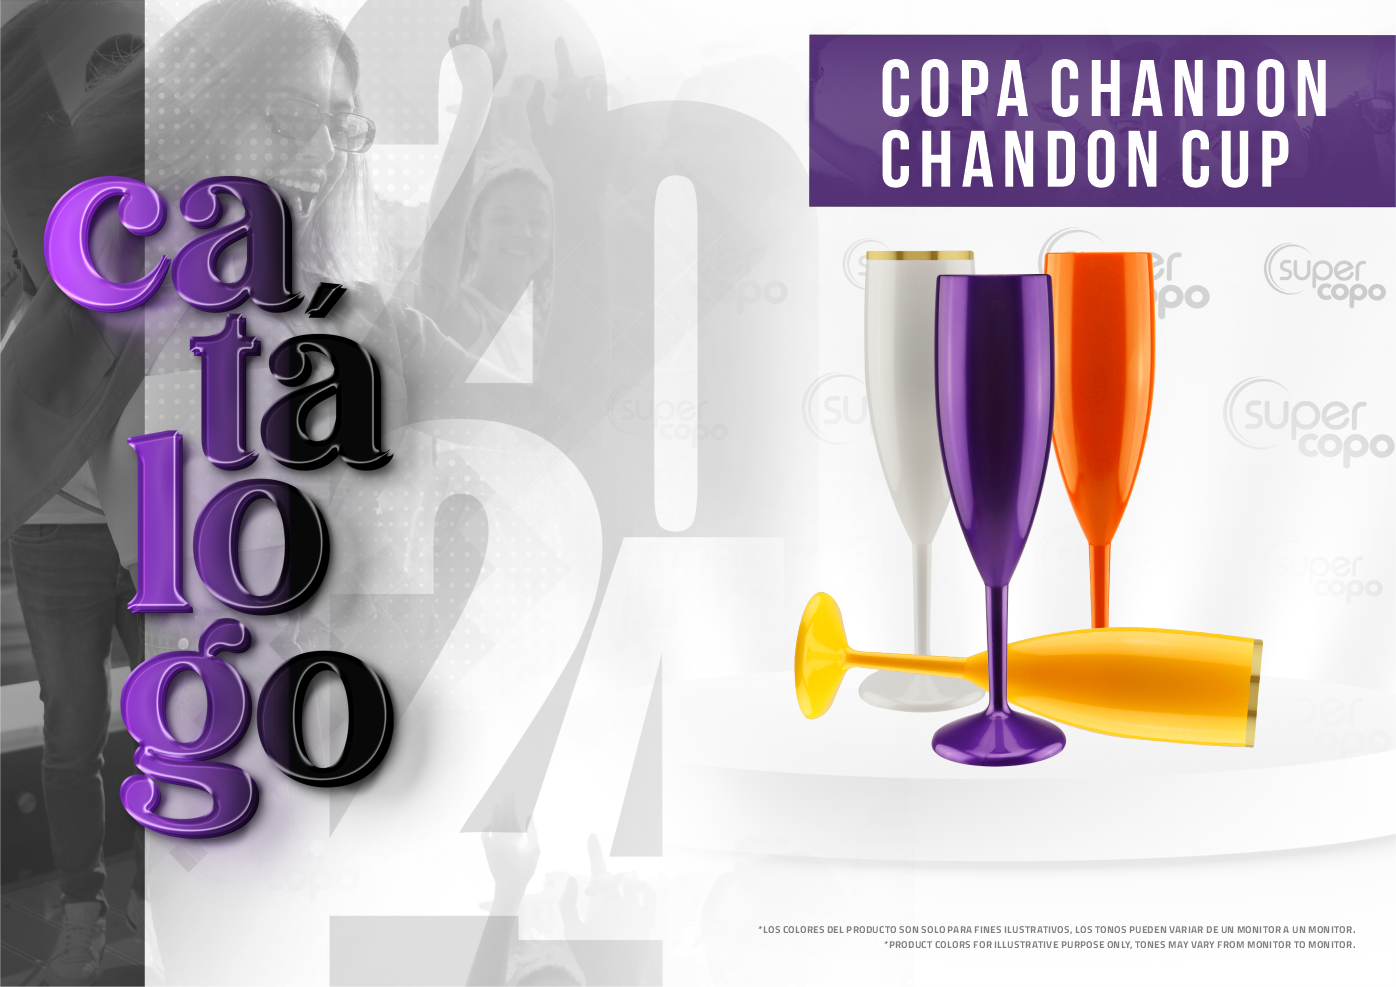
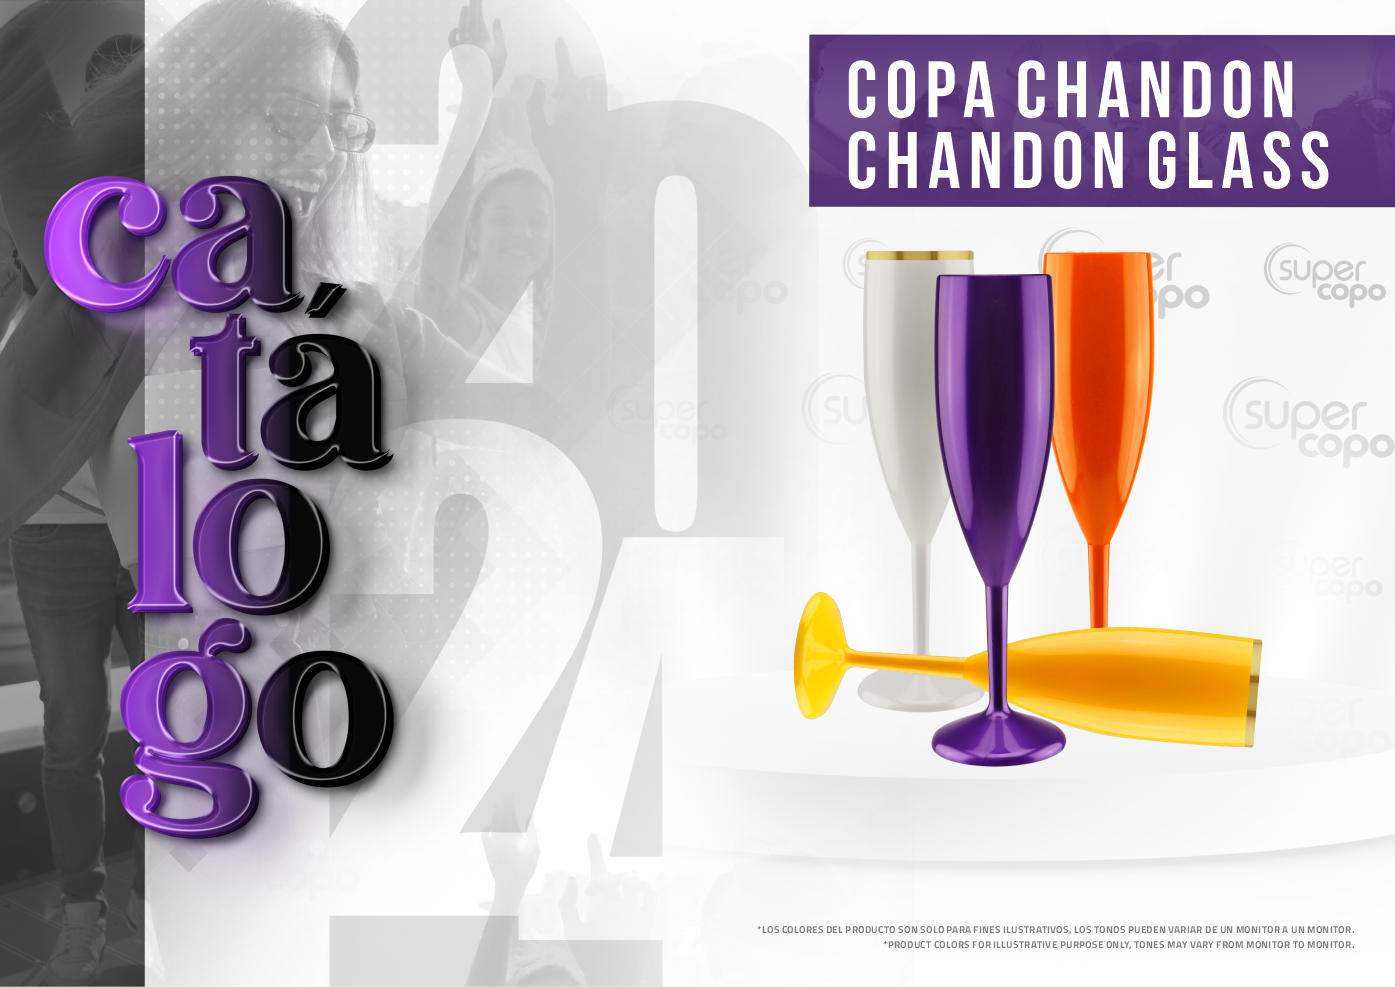
alterando catalogo

Changed region(s): [[0.5857, 0.0608, 0.9556, 0.2128], [0.709, 0.6079, 0.7398, 0.7295], [0.6473, 0.9422, 0.6781, 0.9726]]

diff --git a/src/app/views/catalogo/catalogo.component.ts b/src/app/views/catalogo/catalogo.component.ts
@@ -9,79 +9,79 @@ import { Title } from '@angular/platform-browser';
 export class CatalogoComponent implements OnInit {
 
    catalogos = [
-    { nome: 'ACCESORIOS - ACCESSORIES', preco: 'Acessorios', atacado: 'Liso',
+    { nome: 'ACCESORIOS - ACCESSORIES', preco: 'ACCESORIOS/ACCESSORIES', atacado: 'Liso',
      link: 'https://drive.google.com/file/d/1xV9Kt9UJZhMhcdOR06YyDT3ERlKb2Ps5/view?usp=sharing' , imagem:  'acessorios.png'},
 
-    { nome: 'BOTELLA ACQUA - ACQUA BOTTLE', preco: 'Garrafa/Tampa', atacado: 'Liso',
+    { nome: 'BOTELLA ACQUA - ACQUA BOTTLE', preco: 'BOTELLA ACQUA/ACQUA BOTTLE', atacado: 'Liso',
      link: 'https://drive.google.com/file/d/1FPCBHz59u85Tr1IntEYGQmiz0KRT_5jd/view?usp=sharing', imagem: 'acqua.png' },
 
-    { nome: 'BRASILEIRINHO E BRASILEIRÃO', preco: 'Copo', atacado: 'Liso',
+    { nome: 'BRASILEIRINHO E BRASILEIRÃO', preco: 'BRASILEIRINHO/BRASILEIRÃO', atacado: 'Liso',
      link: 'https://drive.google.com/file/d/1XKB9x9PHR1FF5acN89QqzTYDaPOrwERb/view?usp=drive_link', imagem: 'brasileirinh.png' },
 
-    { nome: 'BALDE POPCORN - POPCORN BUCKET', preco: 'Balde Pipoca', atacado: 'Liso',
+    { nome: 'BALDE POPCORN - POPCORN BUCKET', preco: 'BALDE POPCORN/POPCORN BUCKET', atacado: 'Liso',
      link: 'https://drive.google.com/file/d/1MeMHMOKayFm_w5I9QEAyl6WVT-1Cshlc/view?usp=drive_link', imagem: 'pipoca.png' },
 
-    { nome: 'BALDE PREMIUM - PREMIUM BUCKET', preco: 'Balde Premium', atacado: 'Liso',
+    { nome: 'BALDE PREMIUM - PREMIUM BUCKET', preco: 'BALDE PREMIUM/PREMIUM BUCKET', atacado: 'Liso',
      link: 'https://drive.google.com/file/d/1XPmXmBuzoVi17CQBp9BDZJiXS2cV0YFH/view?usp=drive_link', imagem: 'balde premium.png' },
 
-    { nome: 'BALDE 5 LITROS - 5 LITER BUCKET', preco: 'Balde 5 L', atacado: 'Liso',
+    { nome: 'BALDE 5 LITROS - 5 LITER BUCKET', preco: 'BALDE 5 LITROS /5 LITER BUCKET', atacado: 'Liso',
      link: 'https://drive.google.com/file/d/1XFq7qCjRvChcNN4hcngPzx2EPP_kWGyr/view?usp=drive_link', imagem: 'balde 5 litros.png' },
 
-    { nome: 'CALDERETA - CALDERETA 500 - DOUBLE WALL', preco: 'Copo', atacado: 'Liso',
+    { nome: 'CALDERETA - CALDERETA 500 - DOUBLE WALL', preco: 'CALDERETA/CALDERETA 500 DOUBLE WALL', atacado: 'Liso',
      link: 'https://drive.google.com/file/d/1zZWUQZh2eYG-56RYMjuOjg-oYTuuzehp/view?usp=sharing', imagem: 'caldereta.png' },
 
-    { nome: 'TAZA - MUG', preco: 'Canecas', atacado: 'Liso',
+    { nome: 'TAZA - MUG', preco: 'TAZA/MUG', atacado: 'Liso',
      link: 'https://drive.google.com/file/d/1AEjk3FEl3PyZDc4bzRrrPG5R9iqSqjfC/view?usp=drive_link', imagem: 'caneca 500.png' },
 
-    { nome: 'TAZA SLIM - SLIM MUG', preco: 'Caneca', atacado: 'Liso',
+    { nome: 'TAZA SLIM - SLIM MUG', preco: 'TAZA SLIM/SLIM MUG', atacado: 'Liso',
      link: 'https://drive.google.com/file/d/1X_ugjkpRrZ2lXukIDGHihI0GAhteJxoT/view?usp=drive_link', imagem: 'slim.png' },
 
-    { nome: 'ROCKET BLENDER', preco: 'Garrafa Rockert', atacado: 'Liso',
+    { nome: 'ROCKET BLENDER', preco: 'ROCKET BLENDER', atacado: 'Liso',
      link: 'https://drive.google.com/file/d/1yCGQBRFOBvp-CFa5mIdkJIsZ8m6s6UMW/view?usp=drive_link', imagem: 'rocket.png' },
 
-    { nome: 'DRAFT', preco: 'Copo', atacado: 'Liso',
+    { nome: 'DRAFT', preco: 'DRAFT', atacado: 'Liso',
      link: 'https://drive.google.com/file/d/1XejIg4NiLDukZ0vCNSm6VAlQvai6O2WR/view?usp=sharing', imagem: 'draft.png' },
 
-    { nome: 'VASO DE GINEBRA - GIN CUP', preco: 'Taça', atacado: 'Liso',
+    { nome: 'VASO DE GINEBRA - GIN GLASS', preco: 'VASO DE GINEBRA/GIN GLASS', atacado: 'Liso',
      link: 'https://drive.google.com/file/d/1FQI4WOHRrhTs1uXLKLaeASZnMsb2b1QU/view?usp=sharing', imagem: 'gin.png' },
-     
-    { nome: 'LÍNEA ECO - ECO LINE', preco: 'Copos ECO', atacado: 'Liso',
+
+    { nome: 'LÍNEA ECO - ECO LINE', preco: 'LÍNEA ECO/ECO LINE', atacado: 'Liso',
      link: 'https://drive.google.com/file/d/16dKCZ327-S0qRqqpd39VqyFjfzFqrMPi/view?usp=sharing', imagem: 'linha eco.png' },
 
-    { nome: 'COPA LIGHT - LIGHT CUP - CHAMPAGNE', preco: 'Copos Long Drinks', atacado: 'Liso',
+    { nome: 'COPA LIGHT - LIGHT GLASS - CHAMPAGNE GLASS', preco: 'COPA LIGHT/LIGHT GLASS/CHAMPAGNE GLASS', atacado: 'Liso',
      link: 'https://drive.google.com/file/d/1sc3nbwssdH8wP1YrmzbVENsm9002iRsW/view?usp=drive_link', imagem: 'taça light.png' },
 
-    { nome: 'LONG DRINK', preco: 'Copos Long Drinks', atacado: 'Liso',
+    { nome: 'LONG DRINK', preco: 'LONG DRINK', atacado: 'Liso',
      link: 'https://drive.google.com/file/d/1FS58JZl_Qy5pgewwDHsrqaOnQD7fxHTt/view?usp=sharing', imagem: 'long.png' },
 
-    { nome: 'TWISTERS', preco: 'Copos Twister', atacado: 'Liso',
+    { nome: 'TWISTERS', preco: 'TWISTERS', atacado: 'Liso',
      link: 'https://drive.google.com/file/d/14QCgY-QV76SSRx2DgJjeJPS9dfD_NqZu/view?usp=drive_link', imagem: 'twister.png' },
 
-    { nome: 'MOSCOW MULE', preco: 'Caneca', atacado: 'Liso',
+    { nome: 'MOSCOW MULE', preco: 'MOSCOW MULE', atacado: 'Liso',
      link: 'https://drive.google.com/file/d/1zj7x8MTzfPW6e4ThjpyqAEGoc-4byC4u/view?usp=sharing', imagem: 'moscow.png' },
 
-    { nome: 'PIXEL', preco: 'Copo', atacado: 'Liso',
+    { nome: 'PIXEL', preco: 'PIXEL', atacado: 'Liso',
      link: 'https://drive.google.com/file/d/1Xfg9tOdpV4Qxiy6X1UzXAtqplCbVAGBn/view?usp=drive_link', imagem: 'pixel.png' },
 
-    { nome: 'SHOT', preco: 'Copo de doze', atacado: 'Liso',
+    { nome: 'SHOT', preco: 'SHOT', atacado: 'Liso',
      link: 'https://drive.google.com/file/d/1XgqZ4UsQsjmwo9Vs9-4-2YUgDrqQOLQB/view?usp=drive_link', imagem: 'shot.png' },
 
-    { nome: 'SPACE', preco: 'Copo', atacado: 'Liso',
+    { nome: 'SPACE', preco: 'SPACE', atacado: 'Liso',
      link: 'https://drive.google.com/file/d/1Xi_c1ozN0-yRkUnviaf--K3GanLsqboM/view?usp=drive_link', imagem: 'space.png' },
 
-    { nome: 'COPA CHANDON - CHANDON CUP', preco: 'Taça', atacado: 'Liso',
+    { nome: 'COPA CHANDON - CHANDON GLASS', preco: 'COPA CHANDON/CHANDON GLASS', atacado: 'Liso',
      link: 'https://drive.google.com/file/d/14JV6jVlAMsIrVLL8xLxBnIfiMI-jR4WP/view?usp=drive_link', imagem: 'chandon.png' },
 
-    { nome: 'COPA DE VINO - GLASS OF WINE', preco: 'Taça', atacado: 'Liso',
+    { nome: 'COPA DE VINO - WINE GLASS', preco: 'COPA DE VINO/WINE GLASS', atacado: 'Liso',
      link: 'https://drive.google.com/file/d/1udzo26vKT5qRDI3t78tlP3DR3rI0IlTR/view?usp=sharing', imagem: 'taça vinho.png' },
 
-    { nome: 'TULIPA', preco: 'Copo', atacado: 'Liso',
+    { nome: 'TULIPA', preco: 'TULIPA', atacado: 'Liso',
      link: 'https://drive.google.com/file/d/1XxhEM43XxW3HrvAd9XqNzx7zG5l9nJZS/view?usp=drive_link', imagem: 'tulipa.png' },
 
-    { nome: 'WHISKY', preco: 'Copo', atacado: 'Liso',
+    { nome: 'WHISKY', preco: 'WHISKY', atacado: 'Liso',
      link: 'https://drive.google.com/file/d/1YGMuPv8dkR-36xvB_lOJ4BajOiZP3Dja/view?usp=drive_link', imagem: 'whisky.png' },
 
-    
+
     // Adicione mais catálogos conforme necessário
   ];
 
@@ -90,7 +90,7 @@ export class CatalogoComponent implements OnInit {
     'acqua bio.png'
   ]
 
-  
+
   isExternalLink(link: string): boolean {
     return link.startsWith('http') || link.startsWith('www');
   }
